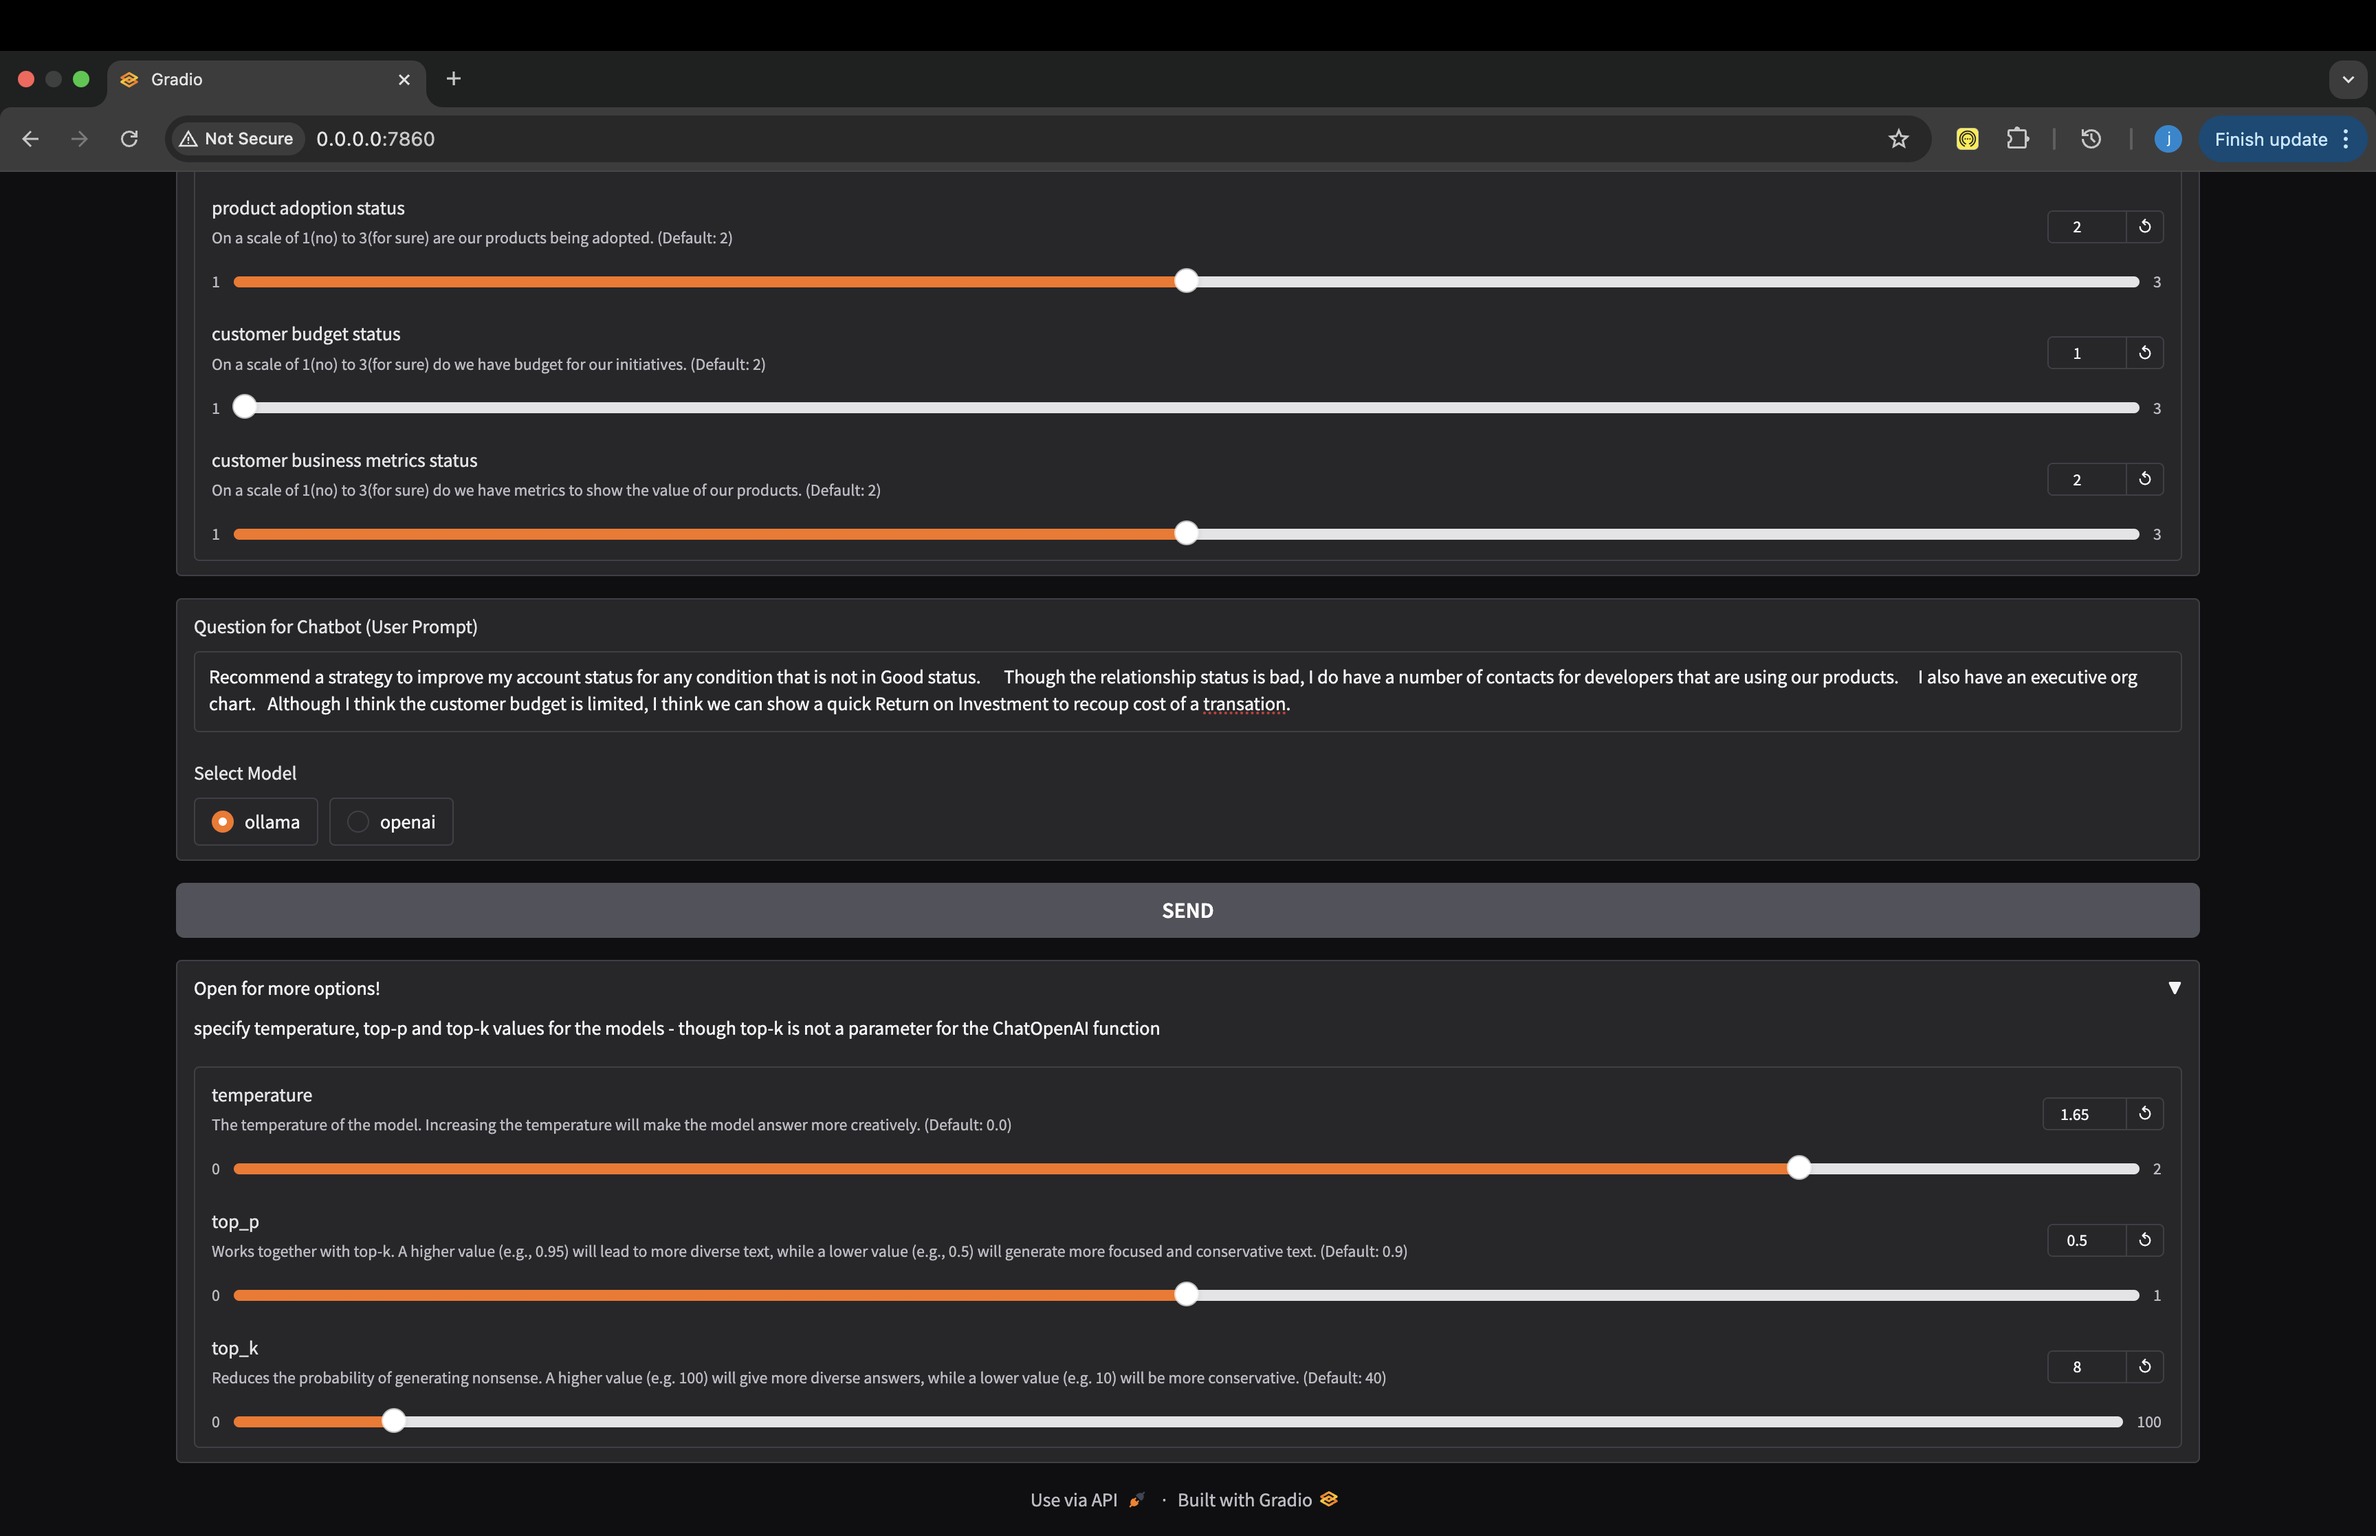
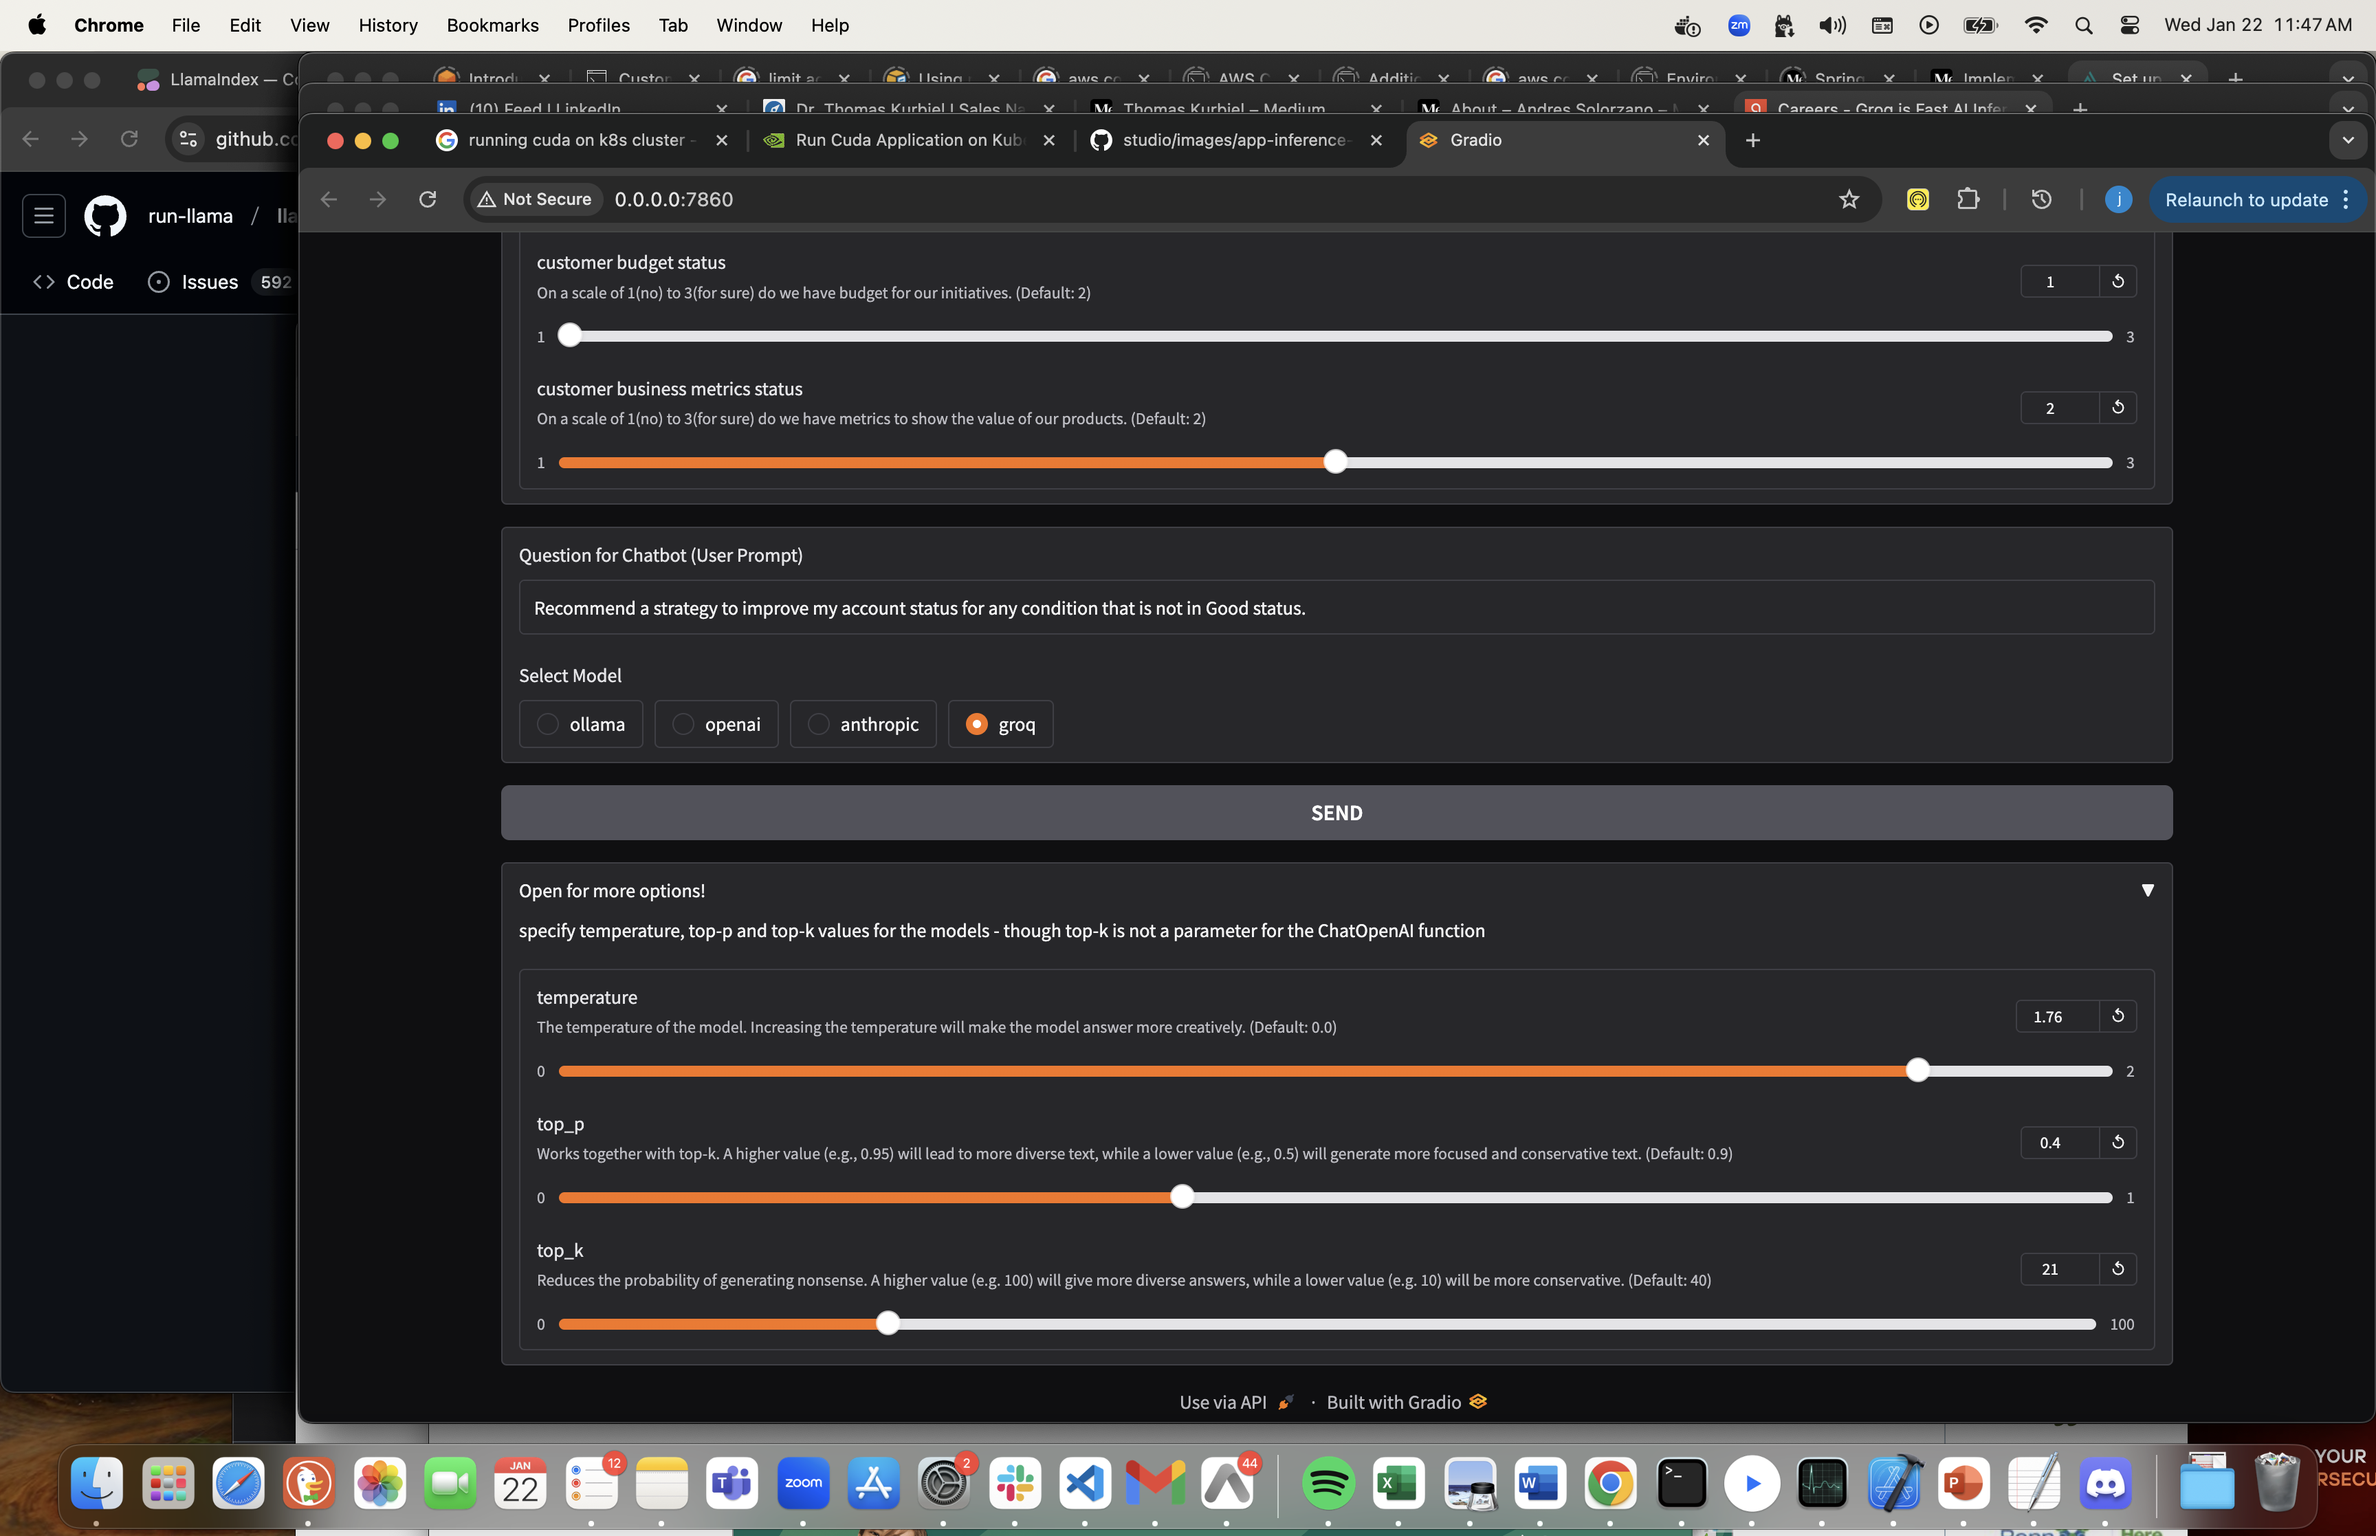
updates to reflect application updates and new foundation models included

diff --git a/infrastructure/aws/fargate/copilot.md b/infrastructure/aws/fargate/copilot.md
@@ -1,0 +1,86 @@
+# aws copilot
+## reference: 
+
+https://aws.github.io/copilot-cli/docs/overview/
+
+more reference: 
+
+https://docs.aws.amazon.com/AmazonECS/latest/developerguide/copilot-deploy.html
+
+## installation
+
+Homebrew: brew install aws/tap/copilot-cli
+
+## docs
+
+Docs: https://aws.github.io/copilot-cli/
+
+## feedback
+
+Feedback & Requests: https://github.com/aws/copilot-cli/issues/new
+
+
+## integration with cognito
+
+https://aws.github.io/copilot-cli/ja/blogs/release-v118/#pipeline_1 
+
+## usage - deploy to fargate with copilot
+```shell
+copilot init
+Note: It's best to run this command in the root of your Git repository.
+Welcome to the Copilot CLI! We're going to walk you through some questions
+to help you get set up with a containerized application on AWS. An application is a collection of
+containerized services that operate together.
+
+Note: Looks like you're creating an application using credentials set by environment variables.
+Copilot will store your application metadata in this account.
+We recommend using credentials from named profiles. To learn more:
+https://aws.github.io/copilot-cli/docs/credentials/
+
+Application name: test
+Workload type: Load Balanced Web Service
+Service name: test-service
+Dockerfile: ./Dockerfile
+Ok great, we'll set up a Load Balanced Web Service named test-service in application test.
+
+✔ Proposing infrastructure changes for stack test-infrastructure-roles
+- Creating the infrastructure for stack test-infrastructure-roles                               [create complete]  [41.5s]
+  - A StackSet admin role assumed by CloudFormation to manage regional stacks                   [create complete]  [20.4s]
+  - An IAM role assumed by the admin role to create ECR repositories, KMS keys, and S3 buckets  [create complete]  [17.5s]
+✔ The directory copilot will hold service manifests for application test.
+
+Note: Architecture type arm64 has been detected. We will set platform 'linux/x86_64' instead. If you'd rather build and run as architecture type arm64, please change the 'platform' field in your workload manifest to 'linux/arm64'.
+✔ Wrote the manifest for service test-service at copilot/test-service/manifest.yml
+Your manifest contains configurations like your container size and port.
+
+- Update regional resources with stack set "test-infrastructure"  [succeeded]  [0.0s]
+All right, you're all set for local development.
+Deploy: Yes
+Only found one option, defaulting to: Create a new environment
+Environment name: qa
+Environment qa does not yet exist in application test; initializing it.
+✔ Wrote the manifest for environment qa at copilot/environments/qa/manifest.yml
+- Update regional resources with stack set "test-infrastructure"  [succeeded]  [0.0s]
+- Update regional resources with stack set "test-infrastructure"  [succeeded]           [39.9s]
+  - Update resources in region "us-east-1"                        [create complete]     [38.3s]
+    - KMS key to encrypt pipeline artifacts between stages        [create complete]     [15.6s]
+    - ECR container image repository for "test-service"           [create complete]     [2.1s]
+    - S3 Bucket to store local artifacts                          [create in progress]  [3.9s]
+✔ Proposing infrastructure changes for the test-qa environment.
+- Creating the infrastructure for the test-qa environment.  [create complete]  [45.3s]
+  - An IAM Role for AWS CloudFormation to manage resources  [create complete]  [17.7s]
+  - An IAM Role to describe resources in your environment   [create complete]  [18.6s]
+✔ Provisioned bootstrap resources for environment qa in region us-east-1 under application test.
+✔ Provisioned bootstrap resources for environment qa.
+✘ get template version of environment qa: get metadata for stack test-qa: get template summary: AccessDenied: Roles may not be assumed by root accounts.
+        status code: 403, request id: 5e934559-fa53-4f97-b454-1d573ec85c98
+(venv) johnlafata@Lafata-MacBook-Pro flask % 
+```
+
+
+## shell to container
+https://aws.amazon.com/blogs/containers/connecting-to-an-interactive-shell-on-your-containers-running-in-aws-fargate-using-aws-copilot/
+
+```shell
+copilot svc exec
+```

diff --git a/tools/foundationModels/tool_calling.md b/tools/foundationModels/tool_calling.md
@@ -1,0 +1,13 @@
+# Llama3.2
+
+https://www.llama.com/docs/model-cards-and-prompt-formats/llama3_2/
+
+From [Code Interpreter](https://www.llama.com/docs/model-cards-and-prompt-formats/llama3_1#-code-interpreter-)
+
+Tool-calling with the lightweight models can be done in 2 ways:
+
+Pass the function definitions in the system prompt + pass the query in the user prompt
+Pass the function definitions and query in the user prompt
+
+# openai - function calling theory - without @Tools and pydantic models
+https://www.promptingguide.ai/applications/function_calling

diff --git a/tools/foundationModels/anthropic.md b/tools/foundationModels/anthropic.md
@@ -1,3 +1,3 @@
-Using Anthropic is pretty simple, you need to register with open ai to get an api key, then you can use the Anthropic python library to interact with the api.   
+Using Anthropic is pretty simple, you need to register with anthropic to get an api key, then you can use the Anthropic langchain python library to interact with the api.   
 
 I put a nominal charge on my Anthropic account to get started and I'm going to be careful to monitor my usage so I don't overrun the allocation I committed.

diff --git a/tools/foundationModels/ollama.md b/tools/foundationModels/ollama.md
@@ -1,3 +1,13 @@
 [Ollama](https://ollama.com/) provides foundation models for you to run on your own infrastructure.
 
-Create an account and download the server and models you want to run.
+Create an account and download the server and models you want to run. 
+
+Pull the models you want using a command like the following
+```
+ollama pull llama3.3:latest
+```
+
+Find out what models you've pulled using the following command
+```
+ollama ls
+```

diff --git a/doc/security/README-OBSERVABILITY.md b/doc/security/README-OBSERVABILITY.md
@@ -1,4 +1,6 @@
-#Observability for Gen AI applications
+# Observability for Gen AI applications
+
+
 
 Observability for GEN AI applications enables developers to gain insights into the performance and behavior of their AI models in real-time. 
 

diff --git a/tools/foundationModels/groq.md b/tools/foundationModels/groq.md
@@ -1,0 +1,2 @@
+Using Groq is pretty simple, you need to register with GroqCloud to get an api key, then you can use the Groq langchain python library to interact with the api.   
+
